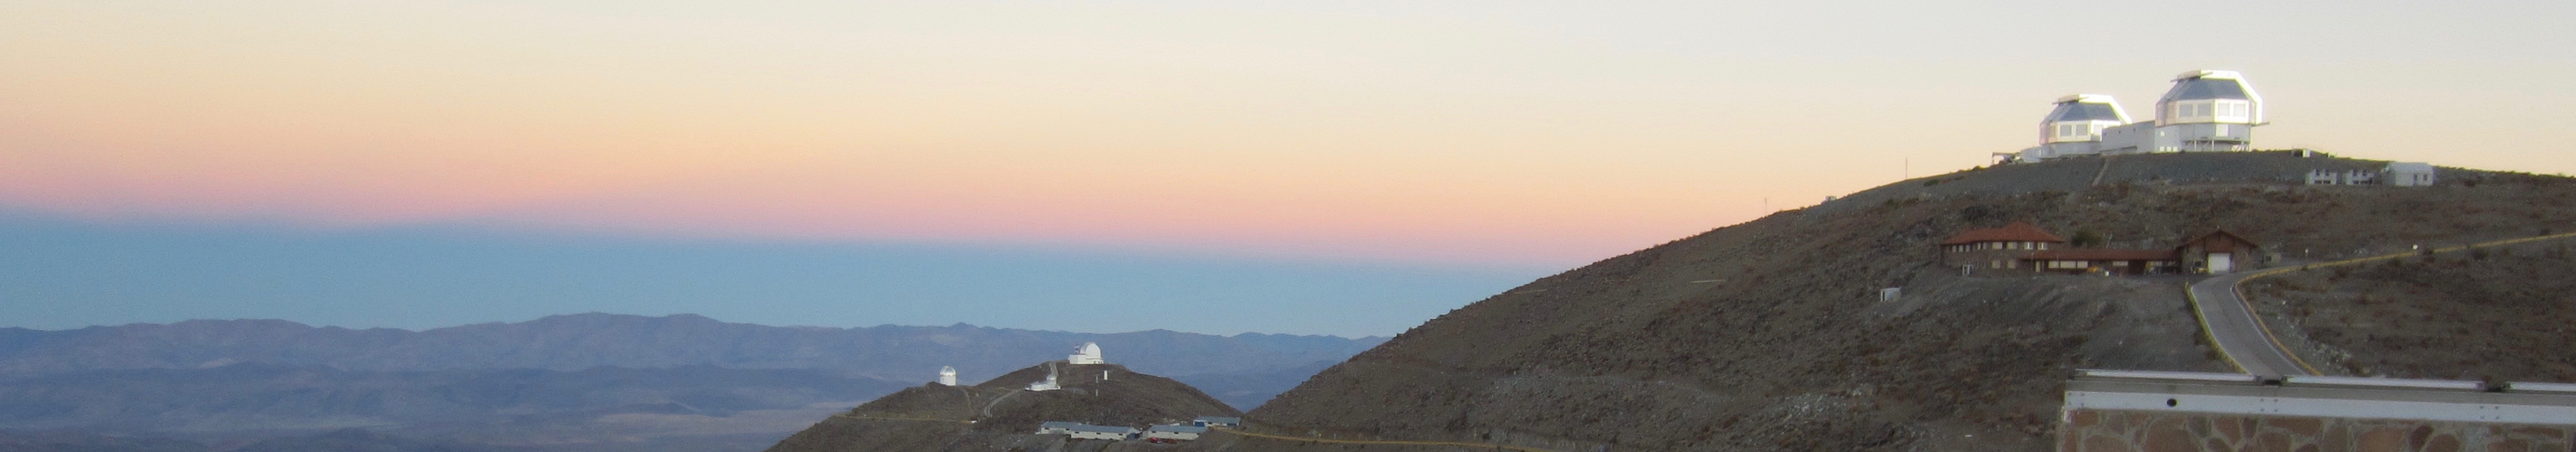
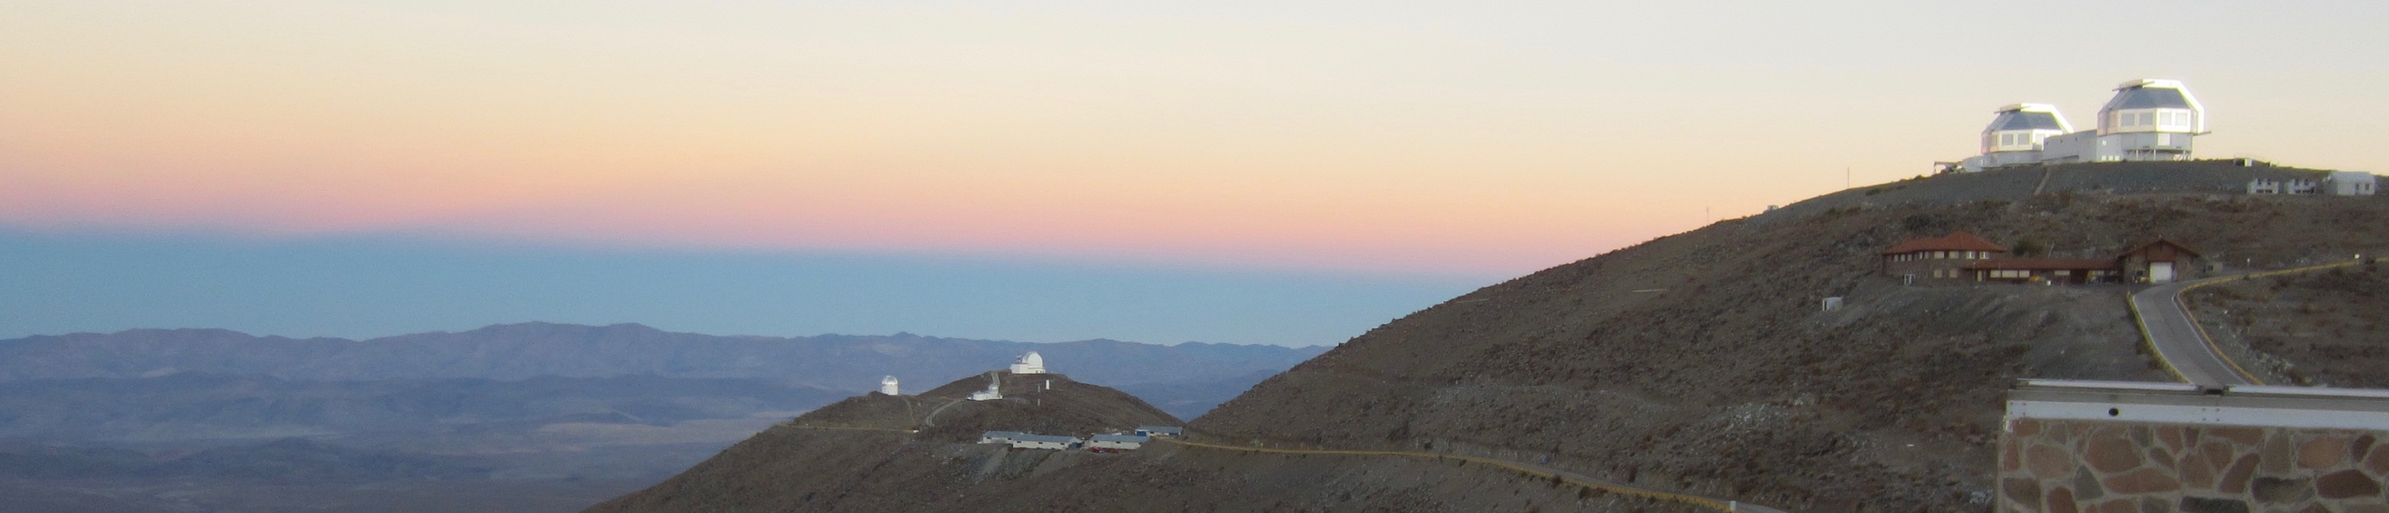
Adjust header image

diff --git a/css/custom.css b/css/custom.css
@@ -13,9 +13,9 @@ body {
 }
 .jumbotron {
       width: 100%;
-      height: 160px;
+      height: 220px;
       background-image: url("../images/MMK-LasCampanas.jpg");
-      background-position: center center;
+      background-position: right center;
       background-repeat: no-repeat;
       background-size: cover;
 }
